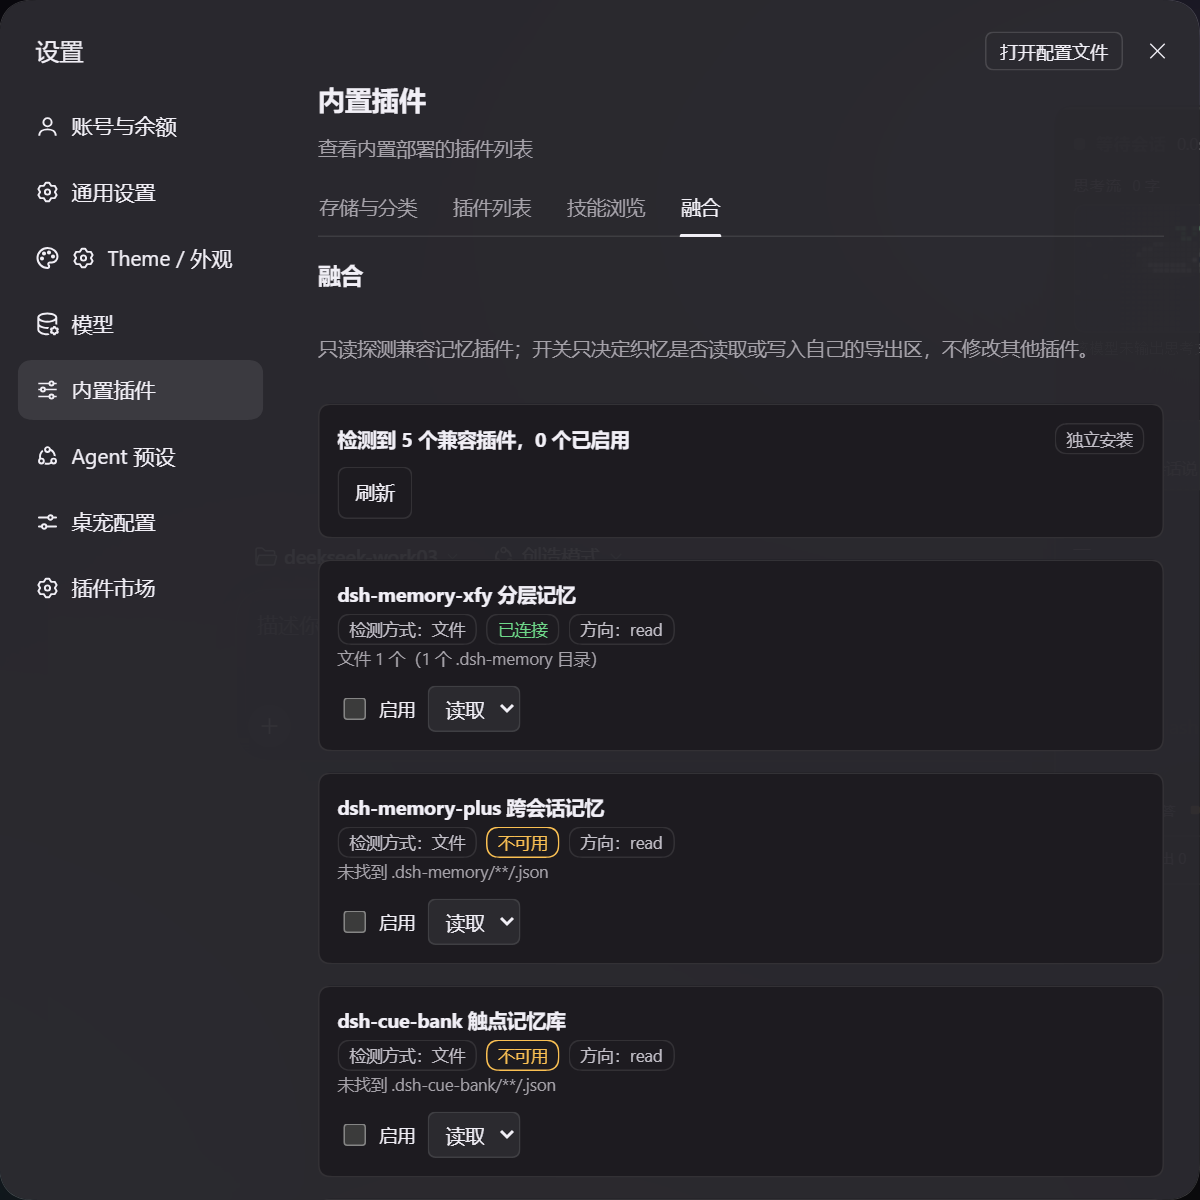
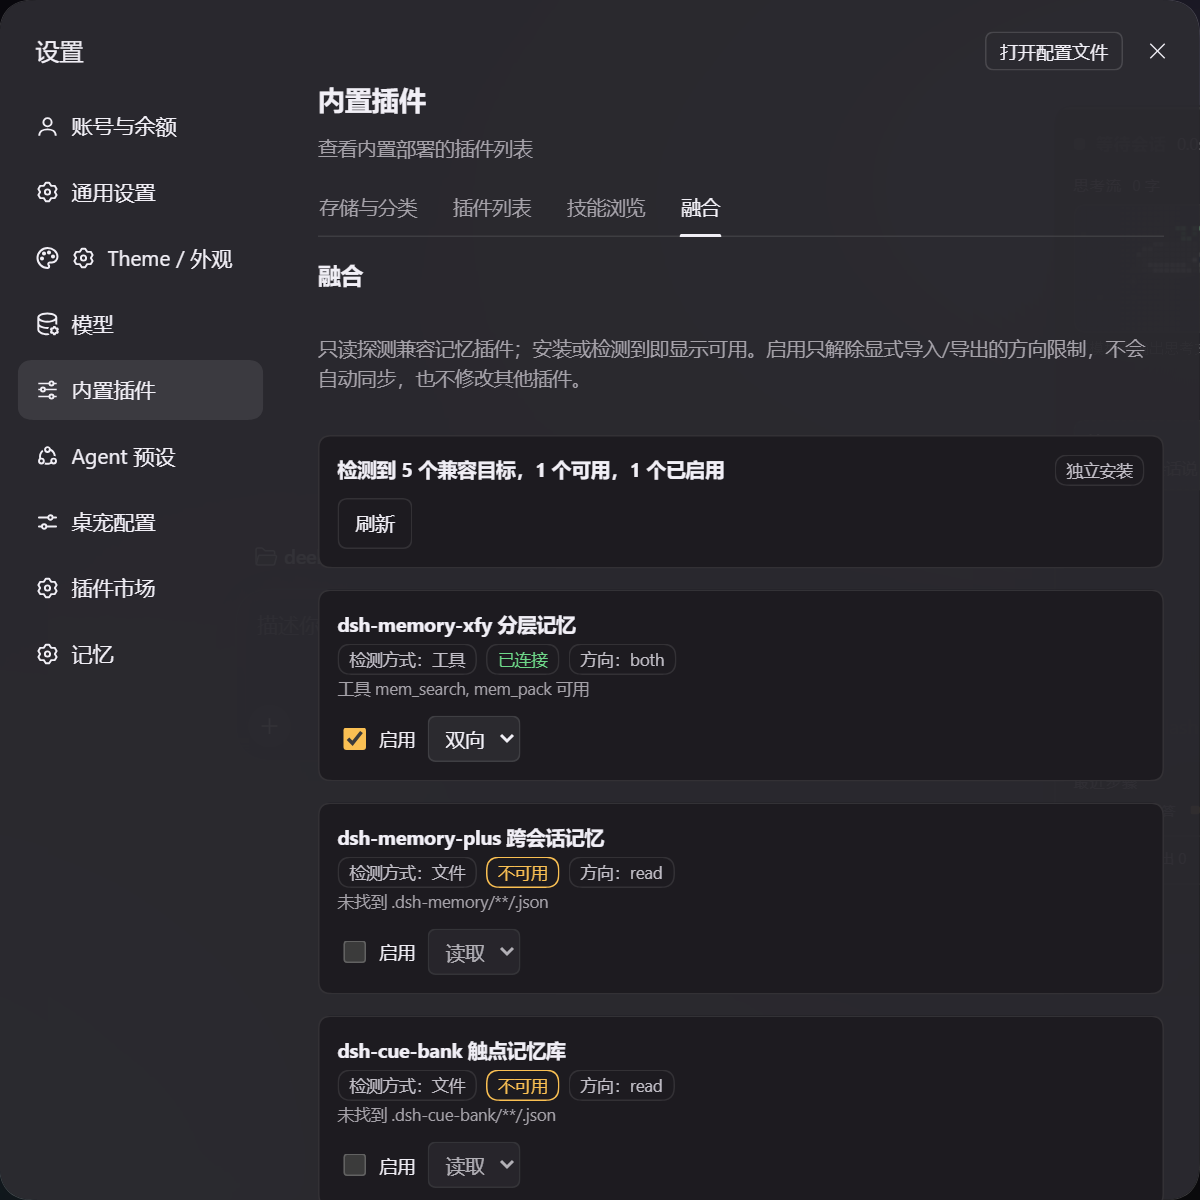
feat(fusion): make installed compatible packages available
Mark a target available when its package is installed in the active profile, show available/enabled counts, and block enabling targets that are not installed. Keep explicit enable/direction control, and refresh the fusion screenshots.

diff --git a/client/index.js b/client/index.js
@@ -95,12 +95,13 @@ window.__ModuleLoader__.load({
       statusDisputed: '有争议',
       statusSuperseded: '已取代',
       fusionTitle: '融合',
-      fusionIntro: '只读探测兼容记忆插件；开关只决定织忆是否读取或写入自己的导出区，不修改其他插件。',
-      fusionSummary: '检测到 {count} 个兼容插件，{enabled} 个已启用',
+      fusionIntro: '只读探测兼容记忆插件；安装或检测到即显示可用。启用只解除显式导入/导出的方向限制，不会自动同步，也不修改其他插件。',
+      fusionSummary: '检测到 {count} 个兼容目标，{available} 个可用，{enabled} 个已启用',
       detectedBy: '检测方式',
       byFile: '文件',
       byService: '服务',
       byTool: '工具',
+      byInstalled: '安装',
       saved: '已保存',
       available: '已连接',
       unavailable: '不可用',
@@ -194,12 +195,13 @@ window.__ModuleLoader__.load({
       statusDisputed: 'Disputed',
       statusSuperseded: 'Superseded',
       fusionTitle: 'Fusion',
-      fusionIntro: 'Read-only probes over compatible memory plugins. Switches only decide whether Memweave reads or writes its own export area; other plugins are untouched.',
-      fusionSummary: '{count} compatible plugins detected, {enabled} enabled',
+      fusionIntro: 'Read-only probes over compatible memory plugins; installed or detected targets show as available. Enabling only unlocks explicit import/export directions and never auto-syncs or edits another plugin.',
+      fusionSummary: '{count} compatibility targets, {available} available, {enabled} enabled',
       detectedBy: 'Detected by',
       byFile: 'File',
       byService: 'Service',
       byTool: 'Tool',
+      byInstalled: 'Installed',
       saved: 'Saved',
       available: 'Connected',
       unavailable: 'Unavailable',
@@ -855,12 +857,13 @@ window.__ModuleLoader__.load({
 
       const fusion = state.status === 'ready' ? state.fusion : null;
       const enabledCount = fusion === null ? 0 : fusion.plugins.filter(plugin => plugin.enabled).length;
+      const availableCount = fusion === null ? 0 : fusion.plugins.filter(plugin => plugin.available).length;
       const directionOptions = [
         ['read', t('directionRead')],
         ['write', t('directionWrite')],
         ['both', t('directionBoth')],
       ];
-      const detectionLabels = { file: t('byFile'), service: t('byService'), tool: t('byTool') };
+      const detectionLabels = { file: t('byFile'), service: t('byService'), tool: t('byTool'), installed: t('byInstalled') };
 
       return h('div', { className: 'mw-root mw-stack' }, [
         h(Styles, { key: 'styles' }),
@@ -877,7 +880,7 @@ window.__ModuleLoader__.load({
 
         fusion === null ? null : h('div', { className: 'mw-card', key: 'summary' }, [
           h('div', { className: 'mw-between', key: 'head' }, [
-            h('strong', { key: 'summary' }, t('fusionSummary', { count: fusion.plugins.length, enabled: enabledCount })),
+            h('strong', { key: 'summary' }, t('fusionSummary', { count: fusion.plugins.length, available: availableCount, enabled: enabledCount })),
             h('span', { className: `mw-badge${fusion.aggregateBundle ? ' mw-badge-ok' : ''}`, key: 'aggregate' }, fusion.aggregateBundle ? t('aggregateOn') : t('aggregateOff')),
           ]),
           h('button', { className: 'mw-button', type: 'button', style: { marginTop: 8 }, onClick: load }, t('refresh')),
@@ -904,7 +907,7 @@ window.__ModuleLoader__.load({
                   key: 'check',
                   type: 'checkbox',
                   checked: plugin.enabled,
-                  disabled: busyKey === plugin.key,
+                  disabled: busyKey === plugin.key || (!plugin.available && !plugin.enabled),
                   onChange: event => { update(plugin, { enabled: event.currentTarget.checked }); },
                 }),
                 t('enable'),
@@ -913,7 +916,7 @@ window.__ModuleLoader__.load({
                 key: 'select',
                 className: 'mw-select',
                 value: plugin.direction,
-                disabled: busyKey === plugin.key,
+                disabled: busyKey === plugin.key || !plugin.available,
                 onChange: event => { update(plugin, { direction: event.currentTarget.value }); },
               }, directionOptions.map(([value, label]) => h('option', { key: value, value }, label))),
             ]),

diff --git a/lib/fusion.js b/lib/fusion.js
@@ -11,6 +11,7 @@
  */
 
 import fs from 'node:fs/promises';
+import os from 'node:os';
 import path from 'node:path';
 import { internalError, invalidArgument, throwIfAborted } from './errors.js';
 import {
@@ -261,8 +262,36 @@ export async function findCompatibleFiles(workspace, entry, { signal } = {}) {
 }
 
 /**
+ * Whether a compatible plugin package is installed in the active profile.
+ * Installation alone is enough to make the target "available": the user still
+ * decides whether to enable it, and the detail explains that no data/tool was
+ * found yet.
+ * @param {string} key
+ * @param {{ signal?: AbortSignal }} [options]
+ * @returns {Promise<boolean>}
+ */
+async function isInstalledPackage(key, { signal } = {}) {
+  throwIfAborted(signal);
+  const home = process.env.DSH_HOME || path.join(os.homedir(), '.dsh');
+  const profile = process.env.DSH_PROFILE;
+  const candidates = [];
+  if (profile) candidates.push(path.join(home, 'profiles', profile, 'node_modules', key, 'package.json'));
+  candidates.push(path.join(home, 'node_modules', key, 'package.json'));
+  candidates.push(path.join(process.cwd(), 'node_modules', key, 'package.json'));
+  for (const candidate of candidates) {
+    try {
+      await fs.access(candidate);
+      return true;
+    } catch {
+      // Try the next known package location.
+    }
+  }
+  return false;
+}
+
+/**
  * Probe one registry entry.
- * @returns {Promise<{ detectedBy: 'service'|'tool'|'file', available: boolean, detail: string, files: string[] }>}
+ * @returns {Promise<{ detectedBy: 'service'|'tool'|'file'|'installed', available: boolean, detail: string, files: string[] }>}
  */
 async function probeEntry(ctx, workspace, entry, { signal } = {}) {
   if (entry.serviceName !== null) {
@@ -293,6 +322,14 @@ async function probeEntry(ctx, workspace, entry, { signal } = {}) {
       available: true,
       detail: `文件 ${fileScan.files.length} 个（${fileScan.roots.length} 个 ${entry.marker} 目录）${fileScan.truncated ? '，已截断' : ''}`,
       files: fileScan.files,
+    };
+  }
+  if (await isInstalledPackage(entry.key, { signal })) {
+    return {
+      detectedBy: 'installed',
+      available: true,
+      detail: `插件已安装；未找到 ${entry.marker}/**/${entry.extensions.join('|')}`,
+      files: [],
     };
   }
   return {

diff --git a/lib/index.js b/lib/index.js
@@ -263,7 +263,8 @@ function renderList(args, value) {
 /** Render fusion status output. */
 function renderFusionStatus(_args, value) {
   const enabled = value.plugins.filter(plugin => plugin.enabled).length;
-  const lines = [`检测到 ${value.plugins.length} 个兼容插件，${enabled} 个已启用`];
+  const available = value.plugins.filter(plugin => plugin.available).length;
+  const lines = [`检测到 ${value.plugins.length} 个兼容目标，${available} 个可用，${enabled} 个已启用`];
   for (const plugin of value.plugins) {
     lines.push(`${plugin.label} [${plugin.detectedBy}] ${plugin.available ? '已连接' : '不可用'} ${plugin.direction}`);
   }
@@ -695,7 +696,7 @@ export function apply(ctx, config = {}) {
                 key: { type: 'string', required: true },
                 label: { type: 'string', required: true },
                 type: { type: 'string', required: true },
-                detectedBy: { type: 'string', required: true, enum: ['file', 'service', 'tool'] },
+                detectedBy: { type: 'string', required: true, enum: ['file', 'service', 'tool', 'installed'] },
                 available: { type: 'boolean', required: true },
                 enabled: { type: 'boolean', required: true },
                 direction: { type: 'string', required: true },

diff --git a/README.en.md b/README.en.md
@@ -13,7 +13,7 @@
   <img alt="version" src="https://img.shields.io/badge/version-1.0.0-4f46e5?style=flat-square" />
   <img alt="license" src="https://img.shields.io/badge/license-MIT-16a34a?style=flat-square" />
   <img alt="DSH" src="https://img.shields.io/badge/DSH-0.2.x-0ea5e9?style=flat-square" />
-  <img alt="tests" src="https://img.shields.io/badge/tests-38%20passing-brightgreen?style=flat-square" />
+  <img alt="tests" src="https://img.shields.io/badge/tests-39%20passing-brightgreen?style=flat-square" />
   <img alt="node" src="https://img.shields.io/badge/Node-%5E22.19%20%7C%7C%20%3E%3D24-339933?style=flat-square" />
 </p>
 
@@ -430,7 +430,7 @@ dsh-memweave/
 ├── aggregate/           # Optional aggregate package (marker + generated patch)
 ├── scripts/             # prepare-aggregate.mjs
 ├── locale/              # zh/en display metadata
-├── test/                # 38 tests: Host, API, paths, client, aggregate
+├── test/                # 39 tests: Host, API, paths, client, aggregate
 ├── DESIGN.md            # Full design and ADR record
 └── README.md
 ```
@@ -475,7 +475,7 @@ Tests need resolvable `@deepseek-ai/dsh-tools`, `@deepseek-ai/dsh-llm` and `@dee
 
 | Version | Status | Content |
 |---|---|---|
-| **v1.0** | ✅ released | 10 tools, three settings tabs, fusion, aggregate, 38 tests |
+| **v1.0** | ✅ released | 10 tools, three settings tabs, fusion, aggregate, 39 tests |
 | v1.1 | planned | Task-network update tool; `superseded` workflow; vector retrieval with explainable ordering |
 | v1.2 | planned | More fusion adapters; extended export formats; screenshots and demo assets |
 | Future | exploring | Team-shared storage, memory merge suggestions, Loop/task-completion linking |

diff --git a/README.md b/README.md
@@ -13,7 +13,7 @@
   <img alt="version" src="https://img.shields.io/badge/version-1.0.0-4f46e5?style=flat-square" />
   <img alt="license" src="https://img.shields.io/badge/license-MIT-16a34a?style=flat-square" />
   <img alt="DSH" src="https://img.shields.io/badge/DSH-0.2.x-0ea5e9?style=flat-square" />
-  <img alt="tests" src="https://img.shields.io/badge/tests-38%20passing-brightgreen?style=flat-square" />
+  <img alt="tests" src="https://img.shields.io/badge/tests-39%20passing-brightgreen?style=flat-square" />
   <img alt="node" src="https://img.shields.io/badge/Node-%5E22.19%20%7C%7C%20%3E%3D24-339933?style=flat-square" />
 </p>
 
@@ -442,7 +442,7 @@ dsh-memweave/
 ├── aggregate/           # 可选聚合包（marker + 生成的 patch）
 ├── scripts/             # prepare-aggregate.mjs
 ├── locale/              # zh/en 显示元数据
-├── test/                # 38 个测试：Host、API、paths、client、aggregate
+├── test/                # 39 个测试：Host、API、paths、client、aggregate
 ├── DESIGN.md            # 完整设计文档与 ADR
 └── README.md
 ```
@@ -487,7 +487,7 @@ node scripts/prepare-aggregate.mjs --profile <profile-dir>
 
 | 版本 | 状态 | 内容 |
 |---|---|---|
-| **v1.0** | ✅ 已发布 | 10 个工具、三个设置页、融合层、聚合层、38 个测试 |
+| **v1.0** | ✅ 已发布 | 10 个工具、三个设置页、融合层、聚合层、39 个测试 |
 | v1.1 | 计划 | 任务网络更新工具；`superseded` 工作流；向量检索（保留可解释排序） |
 | v1.2 | 计划 | 更多融合适配器；导出格式扩展；截图与演示素材 |
 | 未来 | 探索 | 团队级共享存储、记忆合并建议、Loop 与任务完成自动关联 |

diff --git a/docs/USAGE.md b/docs/USAGE.md
@@ -319,10 +319,10 @@ candidate ──verify(valid) +0.15──► verified
 
 “可用”与“启用”是两件事：
 
-- **可用**：探测到了数据或工具；
+- **可用**：在 active profile 中安装了目标插件，或探测到了它的数据/工具；
 - **启用**：你允许织忆在显式调用时按方向读写。
 
-探测优先级：服务 → 已知工具名 → workspace 下的公开文件。当前 5 个适配器主要通过**文件**或**工具名**探测。
+探测优先级：服务 → 已知工具名 → workspace 下的公开文件 → **已安装的包**。只要兼容包已经安装在当前 profile，即使还没有产生数据，也会显示为可用（检测方式“安装”），但你仍需通过“启用”决定是否允许导入/导出。
 
 #### 方式一：安装并启用兼容插件
 

diff --git a/CHANGELOG.md b/CHANGELOG.md
@@ -12,6 +12,7 @@ The format follows [Keep a Changelog](https://keepachangelog.com/en/1.1.0/), and
 ### Fixed
 - Fusion file probes keep the session workspace when `storageRoot` points at a custom directory. Add regression coverage for storage resolution and Fusion detection.
 - Fusion tool probes now recognize the real `mem_search` / `mem_pack` tools of `dsh-memory-xfy`, and the unique `memory_*` tools of `dsh-task-memory`.
+- Fusion reports a compatible package installed in the active profile as available even before data/tools are found; the summary shows available and enabled counts, and uninstalled targets cannot be newly enabled.
 
 ### Planned
 - Task-network update tool (`memweave_network_update`).
